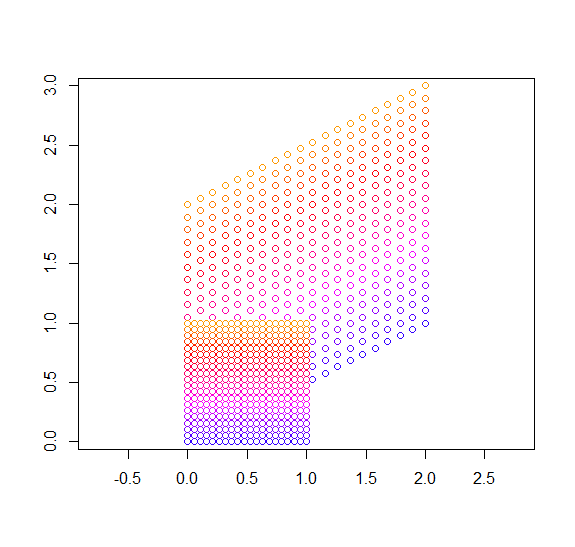
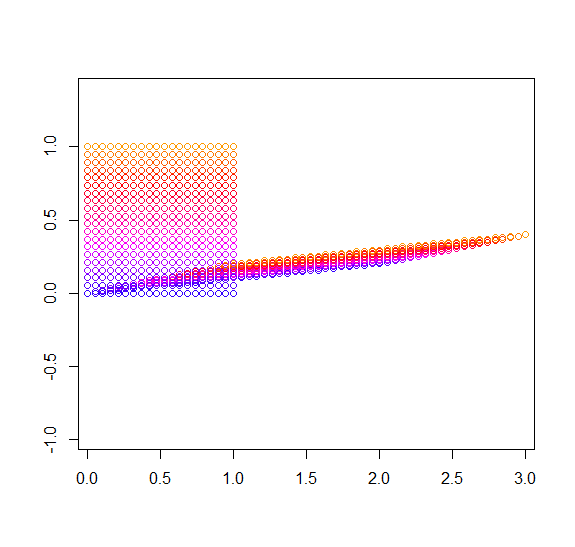
s

diff --git a/_posts/2014-12-5-algebra.md b/_posts/2014-12-5-algebra.md
@@ -92,19 +92,30 @@ $$m=\left(
 
 这种变换，与前面几个不同，这个是把单位正方形，伸缩变换为平行四边形。
 
-
-如果矩阵赋值为：
+再来考虑一特殊情况，如果矩阵赋值为：
 
 $$m=\left(
 \begin{array}{cc}
-2 & 1 \\
-0 & 2
+2 & 0.2 \\
+1 & 0.2
 \end{array}
 \right)$$
 
-用上面的矩阵，对每一点$(x,y)'$进行线性变换，即$(2x+y,2y)'$,结果如下：
+用上面的矩阵，对每一点$(x,y)'$进行线性变换，即$(2x+0.2y,x+0.22y)'$,结果如下：
 
 ![](http://gaolei786.github.com/images/xiandai5.png)
 
-这种变换，与前面几个不同，这个是把单位正方形，伸缩变换为平行四边形。
+可见，上面的线性变换，把单位正方形，压缩为很细长的平行四边形。进一步给矩阵赋值为：
 
+$$m=\left(
+\begin{array}{cc}
+2 & 0.02 \\
+1 & 0.02
+\end{array}
+\right)$$
+
+用上面的矩阵，对每一点$(x,y)'$进行线性变换，即$(2x+0.02y,x+0.02y)'$,结果如下：
+
+![](http://gaolei786.github.com/images/xiandai6.png)
+
+当
